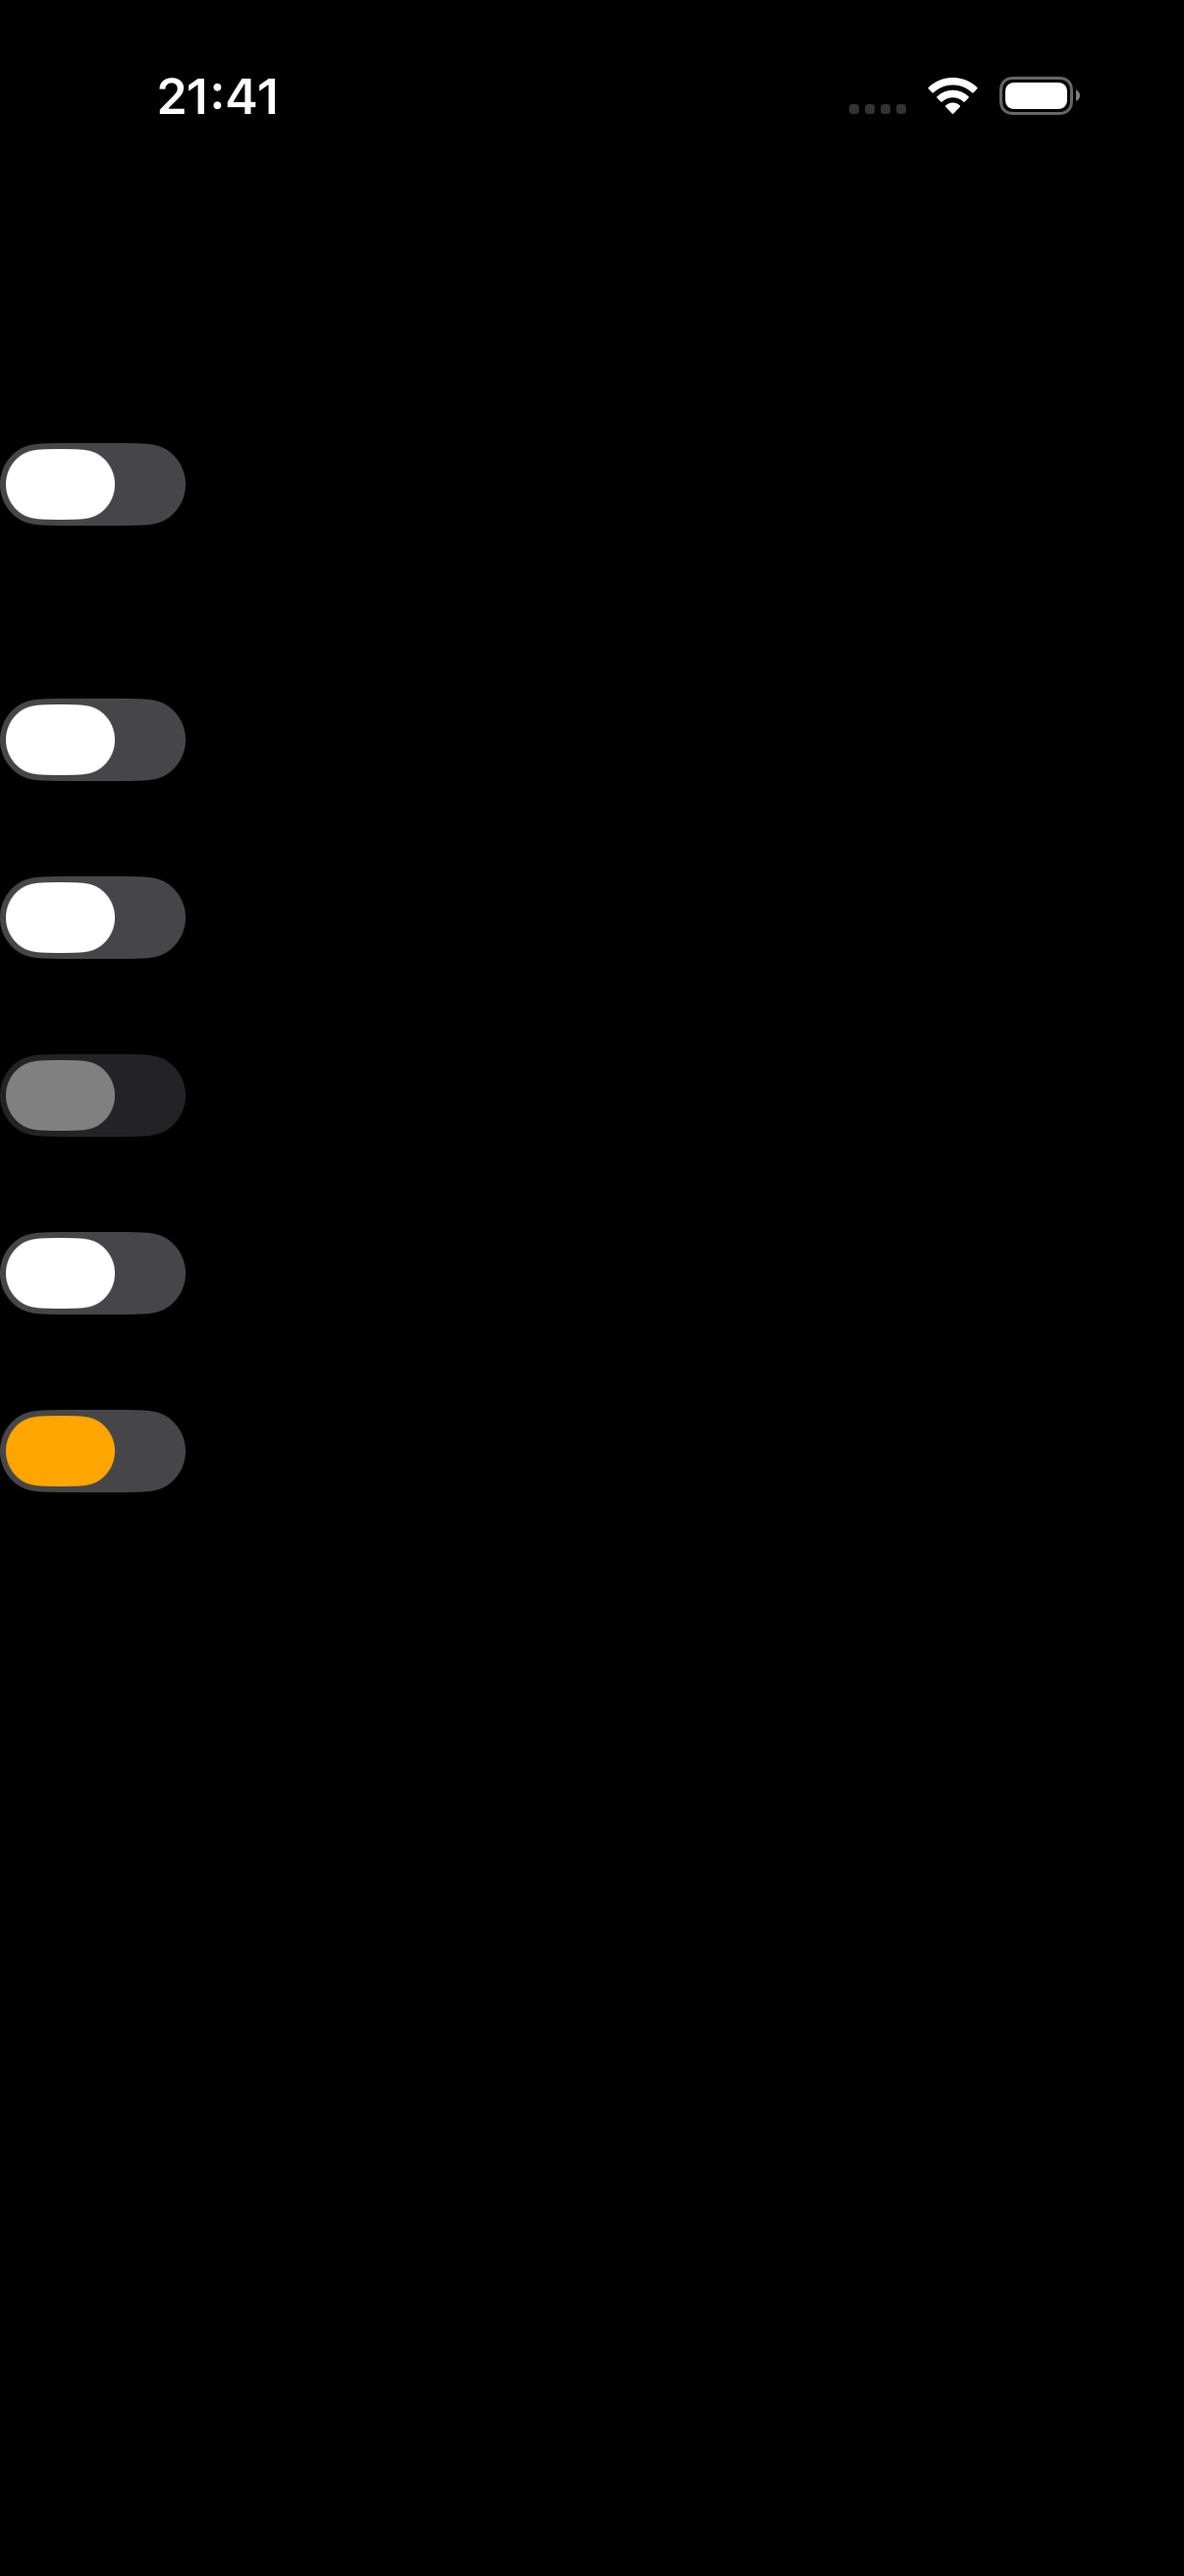
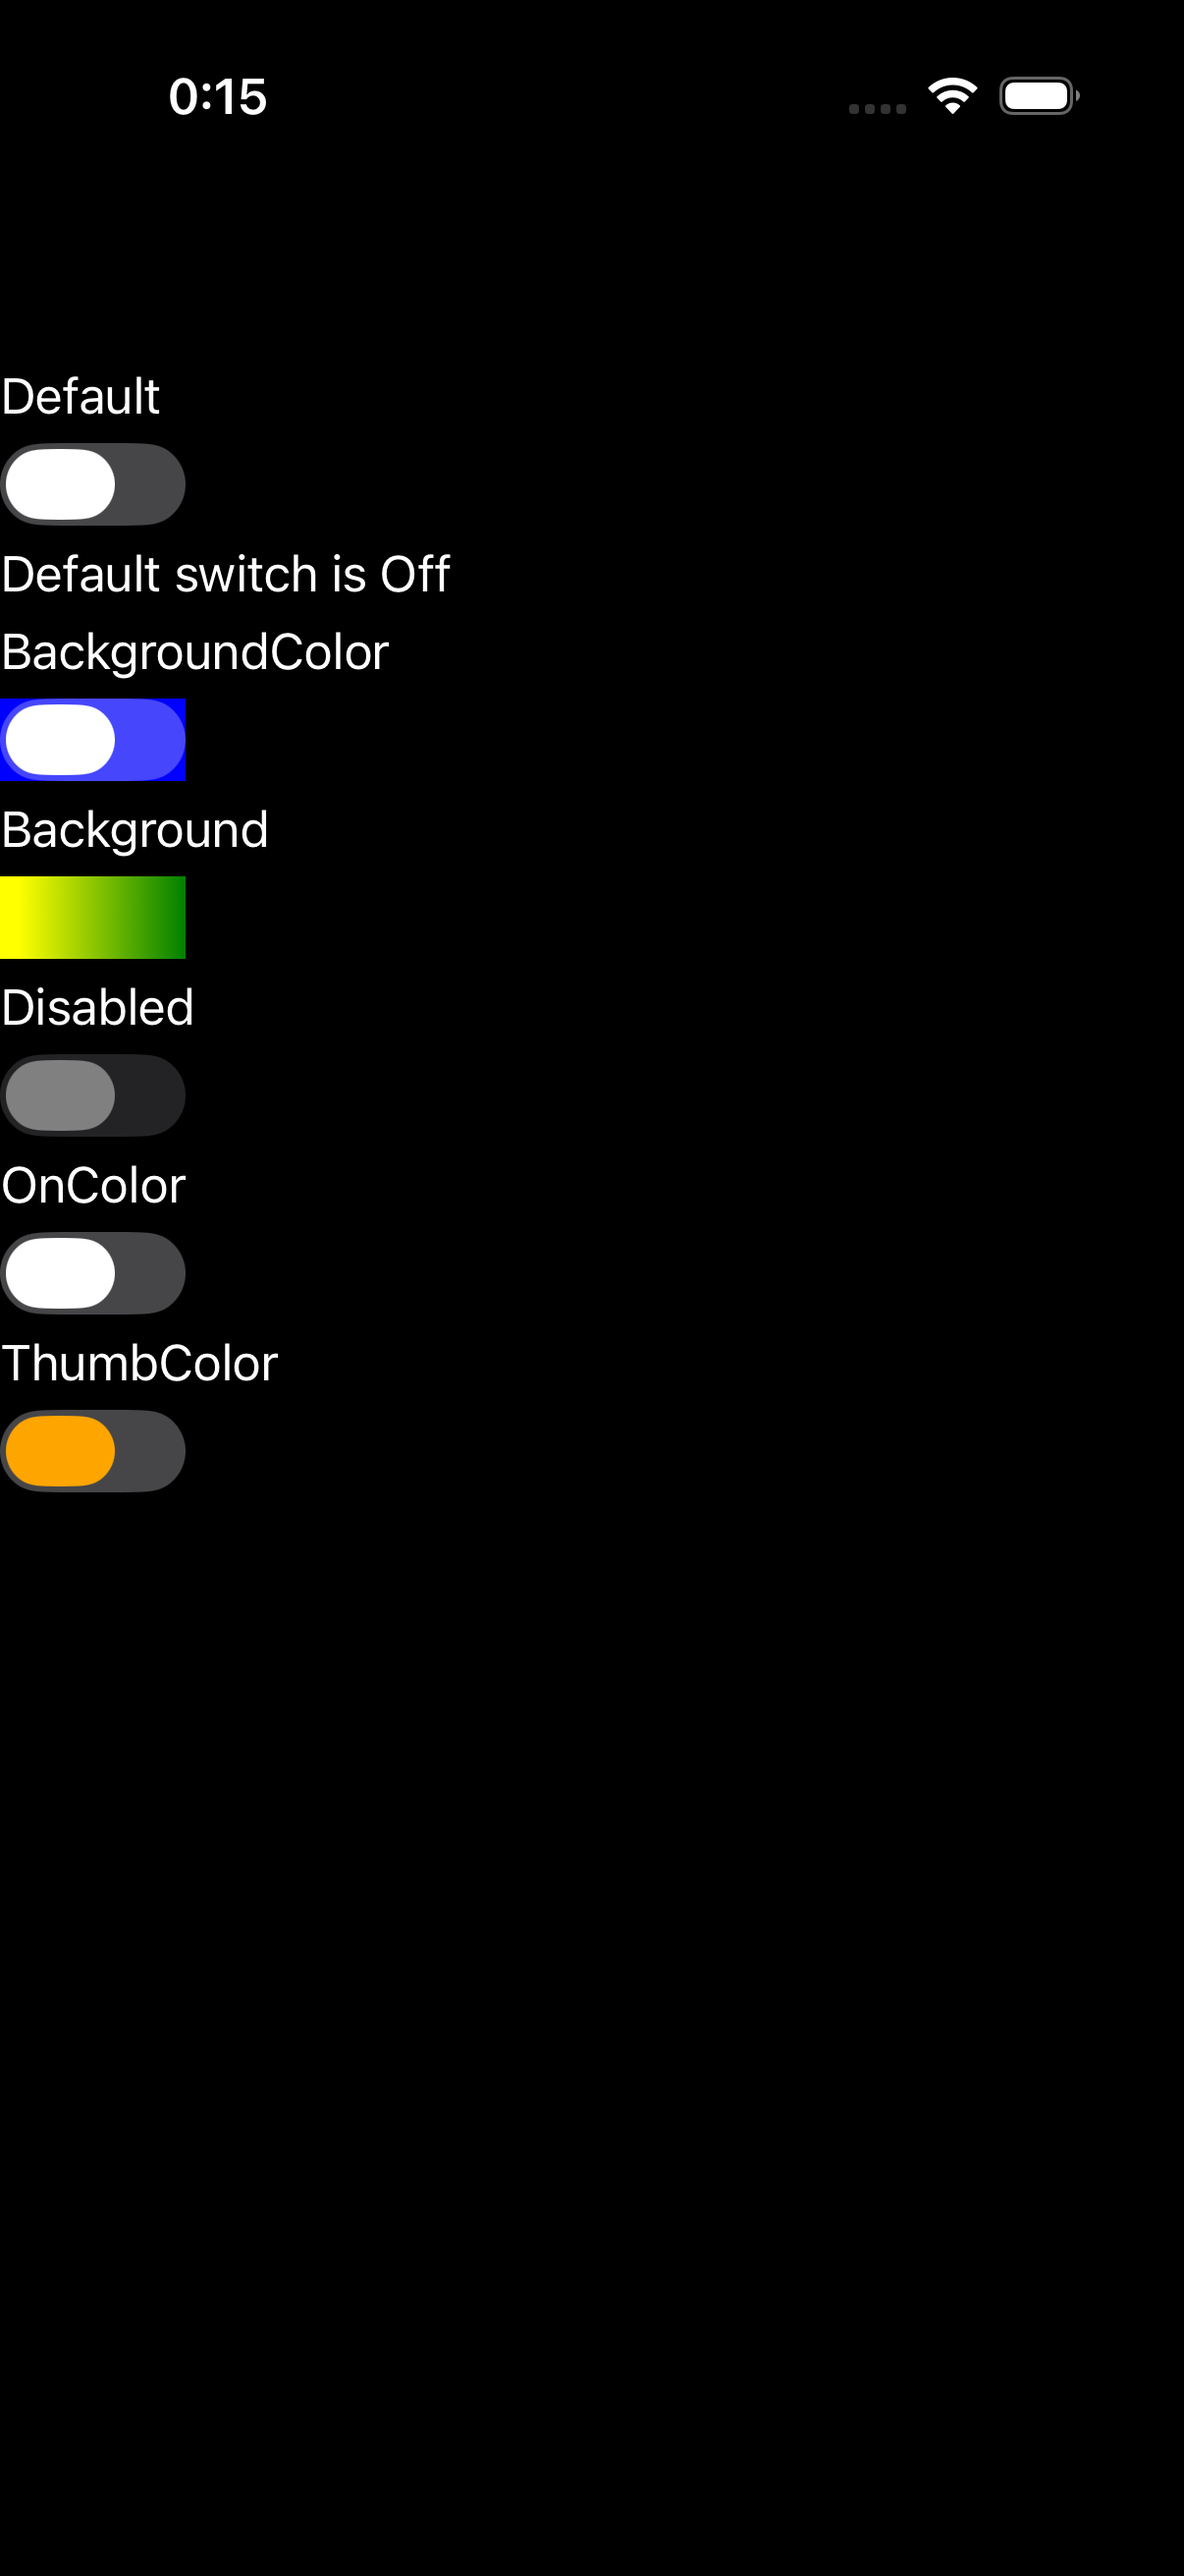
fix(ios,parity): Switch renders BackgroundColor / Background band behind the control
example 12/172 (switch): labels render (dark-text cascade); the missing piece was the
BackgroundColor=Blue band + Background=gradient band. The iOS switch deferred
update_background. Added it (same pattern as slider/stepper): a UISwitch has no bezel,
so apply_background paints the band — solid fills the backing layer, gradient installs a
sublayer the new MauiIosSwitch.layoutSubviews re-sizes via resize_background_layers.

Verified: both bands render behind the switch matching MAUI both themes (sim-captured);
33 switch ios tests pass; clang-tidy 0. Residuals are demo/ambiguous (C# bold labels;
ThumbColor orange-vs-white off-state). Tracker: switch diff->minor (12 minor).

diff --git a/port/cpp/src/platform/ios/switch_handler.mm b/port/cpp/src/platform/ios/switch_handler.mm
@@ -29,6 +29,7 @@
 #include <string_view>
 
 #include "ios_conversions.hpp"
+#include "ios_visual_ops.hpp"
 #include "maui/core/i_switch.hpp"
 #include "maui/core/switch_handler.hpp"
 #include "maui/core/visibility.hpp"
@@ -55,6 +56,21 @@
     {
         view->set_is_on(native.on);
     }
+}
+@end
+
+// MauiIosSwitch — the UISwitch the handler presents. Its layoutSubviews override re-sizes any gradient/
+// image background sublayer apply_background installed (a solid BackgroundColor needs no resize — it is the
+// backing layer's backgroundColor), so a Background brush fills the band behind the switch and tracks bounds.
+// apply_background runs before arrange, when bounds is zero, so the hook is needed for gradients.
+@interface MauiIosSwitch : UISwitch
+@end
+
+@implementation MauiIosSwitch
+- (void)layoutSubviews
+{
+    [super layoutSubviews];
+    maui::platform::ios::resize_background_layers((__bridge void*)self);
 }
 @end
 
@@ -224,10 +240,18 @@ namespace maui::core
         as_switch(native).accessibilityIdentifier = raw != nil ? raw : @"";
     }
 
+    void switch_platform::update_background(const maui::graphics::paint* value)
+    {
+        // BackgroundColor / Background brush fills the band behind the UISwitch (it has no bezel): the shared
+        // helper paints a solid color onto the backing layer or installs a gradient/image sublayer
+        // (MauiIosSwitch.layoutSubviews keeps it sized to bounds). A null paint clears it.
+        maui::platform::ios::apply_background(native, value);
+    }
+
     std::unique_ptr<switch_platform> switch_handler::create_platform_view()
     {
         auto platform = std::make_unique<switch_platform>();
-        UISwitch* const native = [[UISwitch alloc] initWithFrame:CGRectZero];
+        UISwitch* const native = [[MauiIosSwitch alloc] initWithFrame:CGRectZero];
         platform->native = (__bridge_retained void*)native; // the void* slot owns one reference
         return platform;
     }

diff --git a/port/cpp/include/maui/core/switch_handler.hpp b/port/cpp/include/maui/core/switch_handler.hpp
@@ -91,6 +91,9 @@ namespace maui::core
         void update_opacity(double value) override;
         void update_is_enabled(bool value) override;
         void update_automation_id(std::string_view value) override;
+        // BackgroundColor / Background brush IS pushed to the UISwitch — the band behind the switch (the
+        // shared apply_background; MauiIosSwitch.layoutSubviews keeps a gradient/image fill sized to bounds).
+        void update_background(const maui::graphics::paint* value) override;
 
         // SwitchProxy's color-re-application observers (SwitchHandler.iOS.cs). Held as void* (retained)
         // so the cross-platform struct stays Obj-C-free, matching window_platform::notification_trampoline;

diff --git a/port/cpp/docs/comparison/README.md b/port/cpp/docs/comparison/README.md
@@ -2,7 +2,7 @@
 
 Theme-matched iOS comparison: each page rendered by **real .NET MAUI** vs the **C++ port**, on the same iPhone 17 simulator, compared **light-vs-light** and **dark-vs-dark**. Both stacks render native-default controls + the system font (the C# app's `dotnet new maui` default `Styles.xaml` + OpenSans are stripped; appearance forced via `MAUI_THEME` / `MAUI_APPEARANCE`). Goal: pixel-perfect parity, fixed example-by-example.
 
-**Progress: 0 / 172 🟢 matched** · 11 🟡 minor · 54 🔴 diff · 107 ⬜ pending
+**Progress: 0 / 172 🟢 matched** · 12 🟡 minor · 54 🔴 diff · 106 ⬜ pending
 
 Status legend: 🟢 pixel-match (both themes) · 🟡 minor diff · 🔴 notable diff to fix · ⬜ not yet reviewed. Per-theme verdicts in `parity_status.json`.
 
@@ -23,7 +23,7 @@ Rows are in **fix order** (top → bottom): foundational single controls first (
 | 9 | Pickers | 🟡<br>L:minor<br>D:minor | ![](csharp_ios_light/pickers.png) | ![](cpp_ios_light/pickers.png) | ![](csharp_ios_dark/pickers.png) | ![](cpp_ios_dark/pickers.png) |
 | 10 | Slider | 🟡<br>L:minor<br>D:minor | ![](csharp_ios_light/slider.png) | ![](cpp_ios_light/slider.png) | ![](csharp_ios_dark/slider.png) | ![](cpp_ios_dark/slider.png) |
 | 11 | Stepper | 🟡<br>L:minor<br>D:minor | ![](csharp_ios_light/stepper.png) | ![](cpp_ios_light/stepper.png) | ![](csharp_ios_dark/stepper.png) | ![](cpp_ios_dark/stepper.png) |
-| 12 | Switch | ⬜<br>L:pending<br>D:pending | ![](csharp_ios_light/switch.png) | ![](cpp_ios_light/switch.png) | ![](csharp_ios_dark/switch.png) | ![](cpp_ios_dark/switch.png) |
+| 12 | Switch | 🟡<br>L:minor<br>D:minor | ![](csharp_ios_light/switch.png) | ![](cpp_ios_light/switch.png) | ![](csharp_ios_dark/switch.png) | ![](cpp_ios_dark/switch.png) |
 | 13 | Check Box | 🔴<br>L:diff<br>D:diff | ![](csharp_ios_light/check_box.png) | ![](cpp_ios_light/check_box.png) | ![](csharp_ios_dark/check_box.png) | ![](cpp_ios_dark/check_box.png) |
 | 14 | Progress Bar | ⬜<br>L:pending<br>D:pending | ![](csharp_ios_light/progress_bar.png) | ![](cpp_ios_light/progress_bar.png) | ![](csharp_ios_dark/progress_bar.png) | ![](cpp_ios_dark/progress_bar.png) |
 | 15 | Activity Indicator | 🔴<br>L:diff<br>D:blank | ![](csharp_ios_light/activity_indicator.png) | ![](cpp_ios_light/activity_indicator.png) | ![](csharp_ios_dark/activity_indicator.png) | ![](cpp_ios_dark/activity_indicator.png) |
